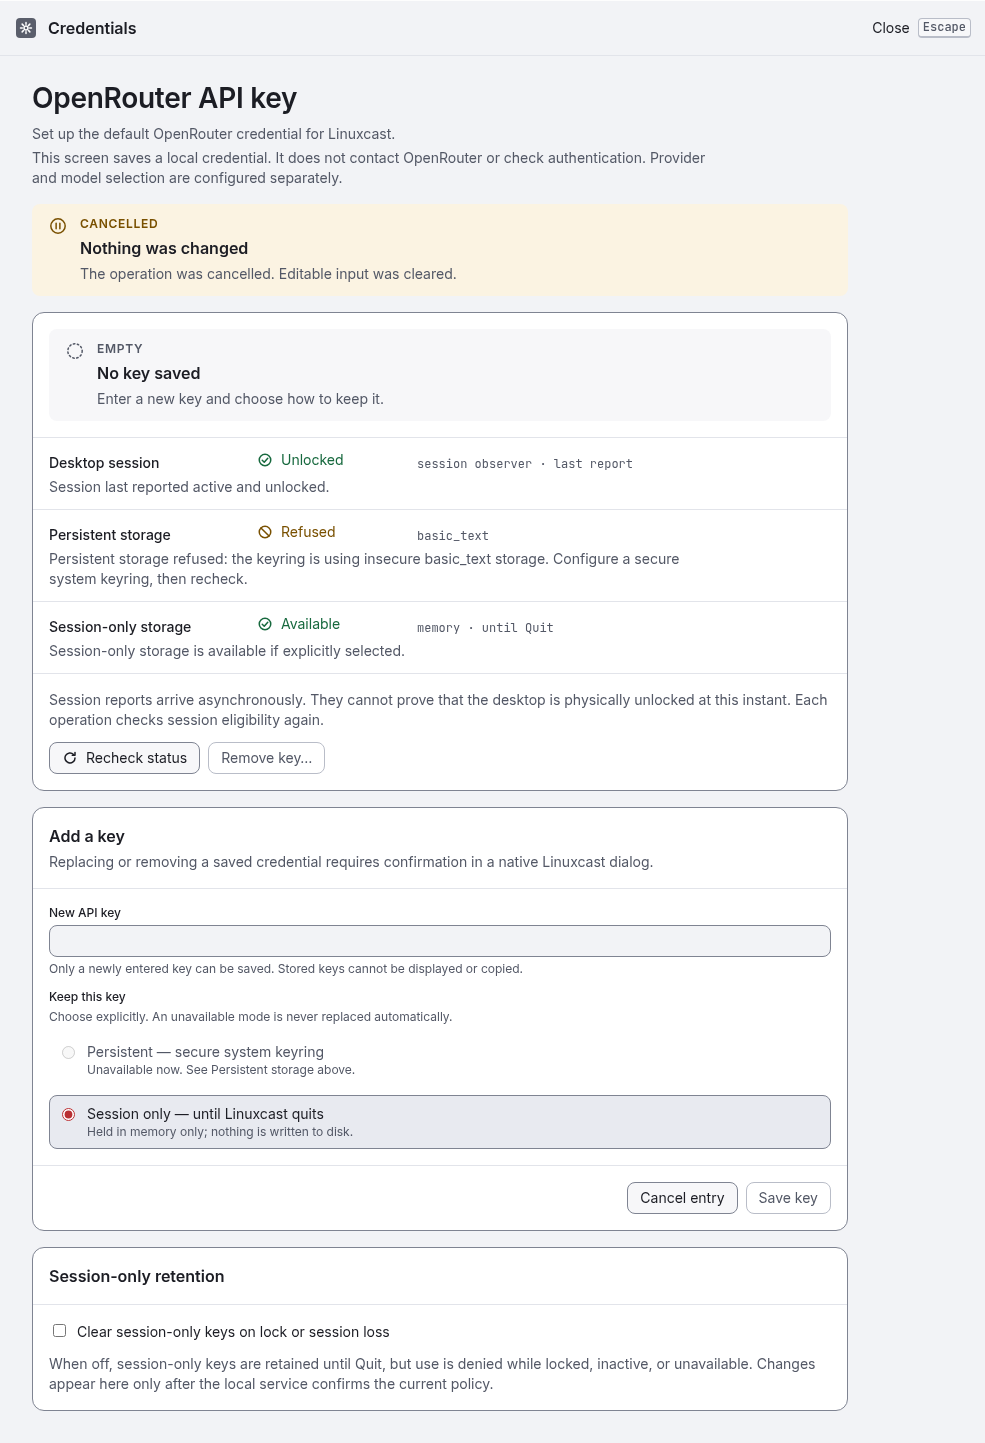
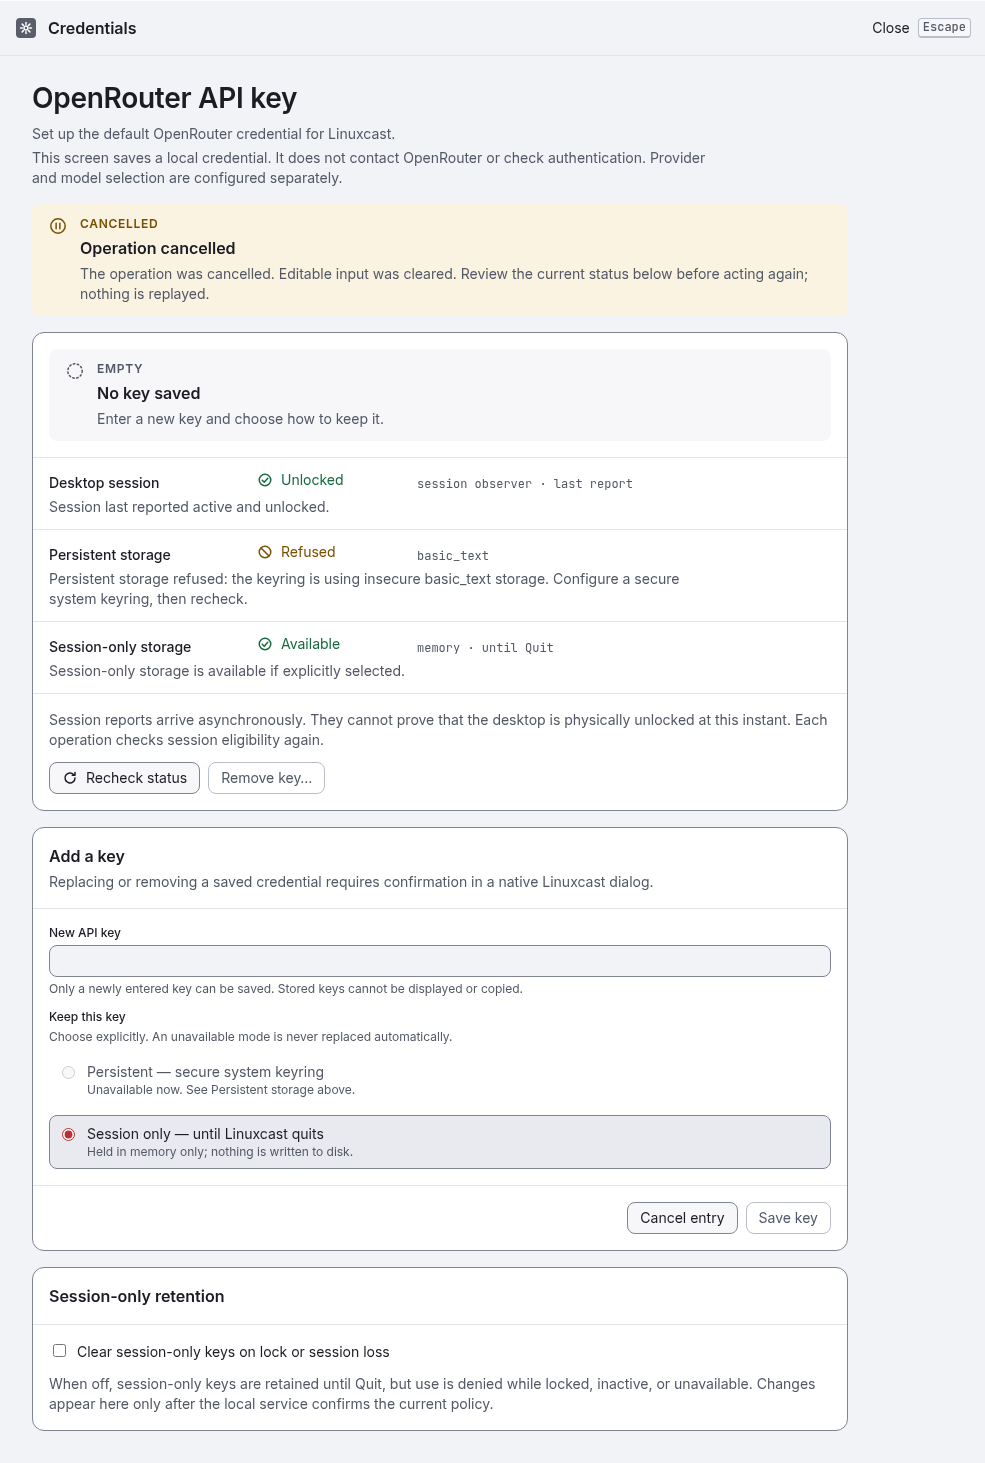
fix(ui): neutral cancelled outcome wording in Credentials window
Main does not guarantee rollback after a cancelled credential operation, so the
plate title is now "Operation cancelled" with a review-current-status hint
instead of "Nothing was changed". Classification, input clearing and no-replay
are unchanged. Adds a regression for a cancelled reply followed by a confirmed
none snapshot; updates the product assertion, cancelled-light capture and
README.

diff --git a/apps/desktop/tests/credentials.integration.test.ts b/apps/desktop/tests/credentials.integration.test.ts
@@ -50,7 +50,7 @@ it('runs the production credential window/store with an explicitly synthetic ses
   expect(order).toEqual(['Recheck status','New API key','Session only — until Linuxcast quits','Cancel entry','Clear session-only keys on lock or session loss']);
   await input.focus();await credentials.keyboard.press('Tab');expect(await focusName()).toBe('Session only — until Linuxcast quits');
   await capture('credentials-keyboard-focus-light');
-  await app.evaluate(({dialog})=>{dialog.showMessageBox=async()=>({response:0,checkboxChecked:false});});await input.fill('SYNTHETIC_CANCELLED_ENTRY');await input.press('Tab');await credentials.keyboard.press('Space');expect(await sessionOnly.isChecked()).toBe(true);await credentials.getByRole('button',{name:'Save key',exact:true}).click();await expect.poll(()=>input.inputValue()).toBe('');await expect.poll(async()=>(await state()).busy).toBe(false);expect((await state()).stored).toBe('none');await credentials.getByText('Nothing was changed',{exact:true}).waitFor();await capture('cancelled-light');
+  await app.evaluate(({dialog})=>{dialog.showMessageBox=async()=>({response:0,checkboxChecked:false});});await input.fill('SYNTHETIC_CANCELLED_ENTRY');await input.press('Tab');await credentials.keyboard.press('Space');expect(await sessionOnly.isChecked()).toBe(true);await credentials.getByRole('button',{name:'Save key',exact:true}).click();await expect.poll(()=>input.inputValue()).toBe('');await expect.poll(async()=>(await state()).busy).toBe(false);expect((await state()).stored).toBe('none');await credentials.getByText('Operation cancelled',{exact:true}).waitFor();expect(await credentials.locator('.cs-notice').textContent()).not.toMatch(/nothing was changed|unchanged|preserved|rolled back/i);await capture('cancelled-light');
   await app.evaluate(({dialog})=>{dialog.showMessageBox=async()=>({response:1,checkboxChecked:false});});await input.fill('SYNTHETIC_MEMORY_ONLY_KEY');await credentials.getByRole('button',{name:'Save key',exact:true}).click();await expect.poll(async()=>(await state()).stored).toBe('session-only');await expect.poll(async()=>(await state()).busy).toBe(false);await capture('saved-session-light');
   expect(await credentials.locator('body').textContent()).not.toContain('SYNTHETIC_MEMORY_ONLY_KEY');const secretDirectory=join(temporary,'data/linuxcast/secrets');expect(readdirSync(secretDirectory)).toEqual([]);
   await input.fill('SYNTHETIC_UNSUBMITTED_ENTRY');writeFileSync(control,'locked');await expect.poll(async()=>(await state()).session).toBe('locked');await expect.poll(()=>input.inputValue()).toBe('');expect((await state()).stored).toBe('session-only');expect((await state()).sessionOnlyAvailable).toBe(false);await capture('locked-light');

diff --git a/packages/secrets/src/ui/credentials.test.tsx b/packages/secrets/src/ui/credentials.test.tsx
@@ -511,3 +511,23 @@ describe('credential settings Instrument presentation (synthetic bridge)', () =>
     expect(ack.closest('[role="status"]')).toBeTruthy();
   });
 });
+
+describe('credential settings cancelled outcome wording (synthetic bridge)', () => {
+  it('shows a neutral cancelled plate that never claims the prior key survived when the confirmed refresh reports none', async () => {
+    // Main may return `cancelled` after partial work (e.g. lock during replacement); the refreshed snapshot is authoritative.
+    const f = fixture({ stored: 'secure-persistent', clearSessionOnLock: true });
+    f.api.saveKey.mockImplementation(async () => { await f.change({ stored: 'none', revision: 5 }); return confirmed('cancelled'); });
+    await ready(f.api); enter('synthetic-replacement', 'session-only'); submit();
+    const title = await screen.findByRole('heading', { name: 'Operation cancelled' });
+    const plate = title.closest('section.lc-plate')!;
+    expect(plate.getAttribute('data-kind')).toBe('interrupted');
+    expect(plate.querySelector('.lc-plate-eyebrow')!.textContent).toBe('Cancelled');
+    expect(plate.textContent).toContain('Editable input was cleared.');
+    expect(plate.textContent).toMatch(/Review the current status/);
+    expect(plate.textContent).not.toMatch(/nothing was changed|unchanged|preserved|kept|rolled back|still saved/i);
+    await screen.findByRole('heading', { name: 'No key saved' });
+    expect(screen.queryByRole('heading', { name: 'Key saved locally' })).toBeNull();
+    expect(input().value).toBe(''); expect(f.api.saveKey).toHaveBeenCalledTimes(1);
+    expect(document.body.innerHTML).not.toContain('synthetic-replacement');
+  });
+});

diff --git a/packages/secrets/src/ui/presentation.ts b/packages/secrets/src/ui/presentation.ts
@@ -35,7 +35,9 @@ export function outcomeNotice(reply: CredentialSettingsActionReply, operation: O
     case 'saved': return { kind: 'success', title: 'Local save confirmed', text: 'The local key save was confirmed. Provider authentication has not been checked.' };
     case 'removed': return { kind: 'success', title: 'Removal confirmed', text: 'Key removal was confirmed.' };
     case 'policy-updated': return { kind: 'success', title: 'Policy update confirmed', text: 'The session policy update was confirmed.' };
-    case 'cancelled': return { kind: 'interrupted', eyebrow: 'Cancelled', title: 'Nothing was changed', text: 'The operation was cancelled. Editable input was cleared.' };
+    // Neutral: main does not guarantee rollback (a cancel can follow partial work), so never claim
+    // the prior state survived. The refreshed confirmed snapshot below is the only status source.
+    case 'cancelled': return { kind: 'interrupted', eyebrow: 'Cancelled', title: 'Operation cancelled', text: 'The operation was cancelled. Editable input was cleared. Review the current status below before acting again; nothing is replayed.' };
     case 'stale': return { kind: 'interrupted', eyebrow: 'Not applied', title: 'Settings changed', text: STALE_TEXT };
     case 'unknown': return unknownNotice;
     case 'unavailable': return { kind: 'unavailable', title: 'Operation unavailable', text: UNAVAILABLE_TEXT };

diff --git a/apps/desktop/evidence/instrument-credentials/README.md b/apps/desktop/evidence/instrument-credentials/README.md
@@ -33,7 +33,7 @@ navigation, and it does not set up a provider or model.
 | --- | --- |
 | `credentials-dark.png`, `credentials-light.png` | Initialized empty workspace. Shows the header (system tile, “Credentials”, Close with the bound `Escape` keycap), the page title (focused on open, as before), the Empty plate, and the session/storage rows: Unlocked, Refused · `basic_text`, Session-only Available. Neither radio is selected and Persistent is disabled with its reason. |
 | `credentials-keyboard-focus-light.png` | Keyboard only. Tab order from the title is Recheck status → New API key → Session only radio → Cancel entry → policy checkbox. Disabled Remove and Save are skipped. The capture shows the focused radio. |
-| `cancelled-light.png` | Native confirmation cancelled. The Cancelled plate says “Nothing was changed”, the input is cleared, the store still reports `none`, and nothing is claimed as success. |
+| `cancelled-light.png` | Native confirmation cancelled. The Cancelled plate says “Operation cancelled” and asks you to review the current status below before acting again; nothing is replayed. It makes no claim that anything was preserved or rolled back, because main does not guarantee rollback. The input is cleared and the confirmed refresh reports `none`. Nothing is claimed as success. Recaptured in the wording correction; the other 8 captures are unchanged from `2ea07e8`. |
 | `saved-session-light.png` | Confirmed session-only save. The Done plate says “local save confirmed, provider authentication has not been checked”, and the stored plate repeats that saved status is not authentication. |
 | `locked-light.png` | Lock reported. Unsubmitted input is cleared, the field is read-only, the Session row shows Locked, both storage modes are Unavailable with reasons, and the policy checkbox is disabled. |
 | `removed-light.png` | Keyboard `Enter` on Remove key…, then the instrumented confirmation. The Done plate appears only after the `removed` reply, and the confirmed snapshot shows Empty. |
@@ -44,8 +44,10 @@ navigation, and it does not set up a provider or model.
 
 Pop!_OS 22.04 amd64 development host. Pinned Node 24.22.1 and Bun 1.4.4, Electron 45.0.0, Vitest 4.1.12.
 
-- `bun run test:unit -- F2-02`: 85/85 pass. That is 70 credential tests (the original 52 plus 18 new
-  Instrument regressions) and 15 Local data tests.
+- `bun run test:unit -- F2-02`: 86/86 pass. That is 71 credential tests (the original 52, 18 new
+  Instrument regressions and 1 cancelled-wording regression) and 15 Local data tests. The cancelled-wording
+  regression (a cancelled reply followed by a confirmed `none` refresh) fails against the `2ea07e8`
+  wording and passes with the fix.
 - `bun run test:contracts -- F2-02`: 3/3 pass. `bun run test:security -- F2-02`: 144/144 pass.
 - `bun run typecheck`, `bun run lint`, `python3 scripts/validate_plan.py` and `git diff --check` pass.
 - Credential product flow (`LINUXCAST_TEST_FILES=["apps/desktop/tests/credentials.integration.test.ts"]`
